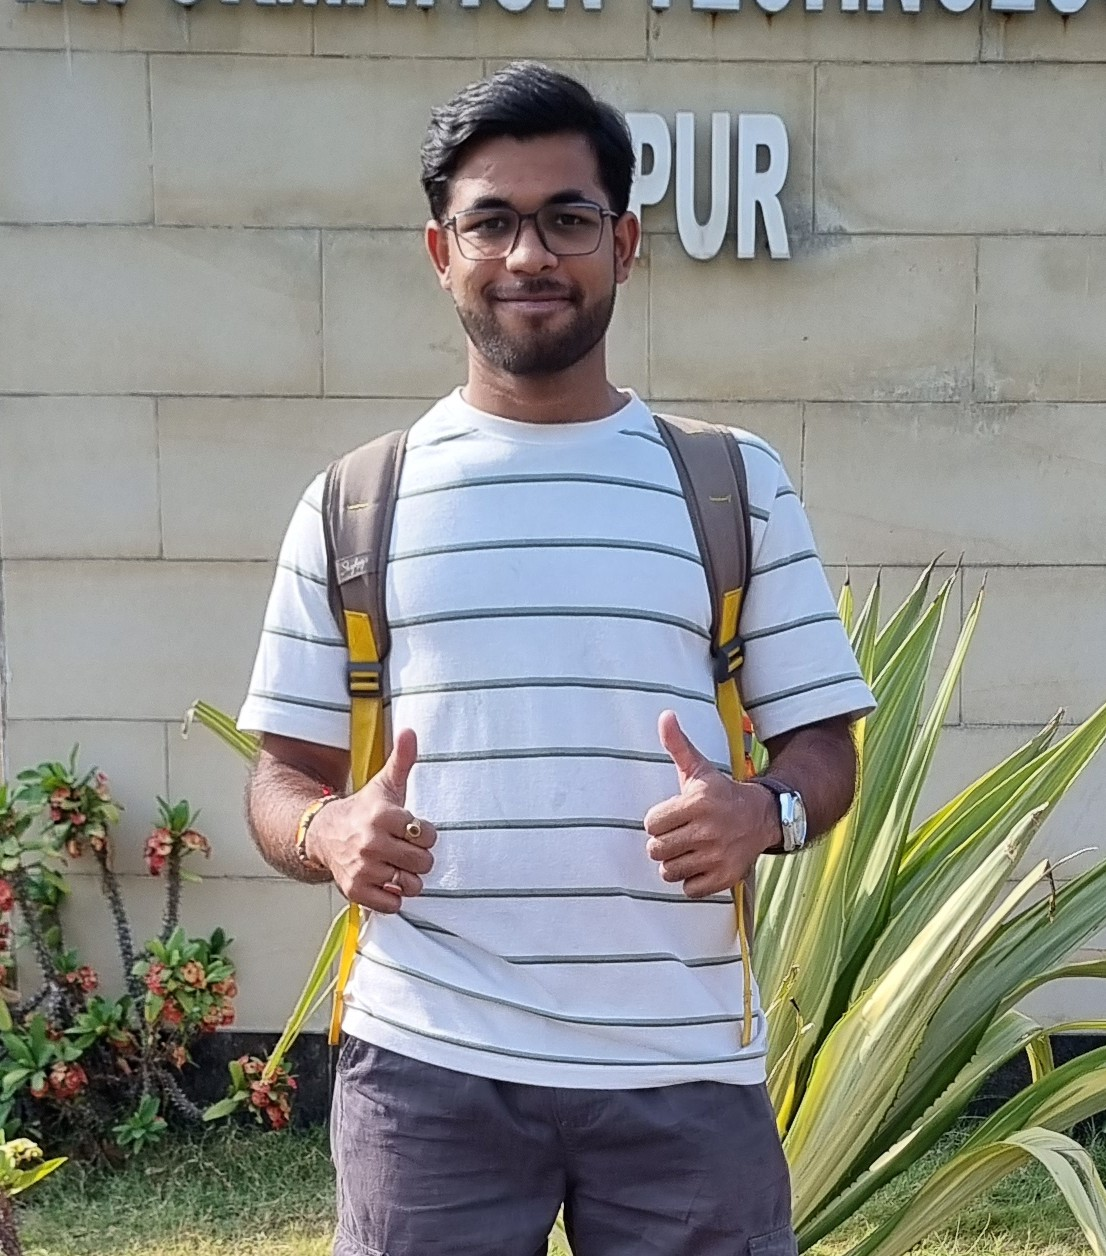
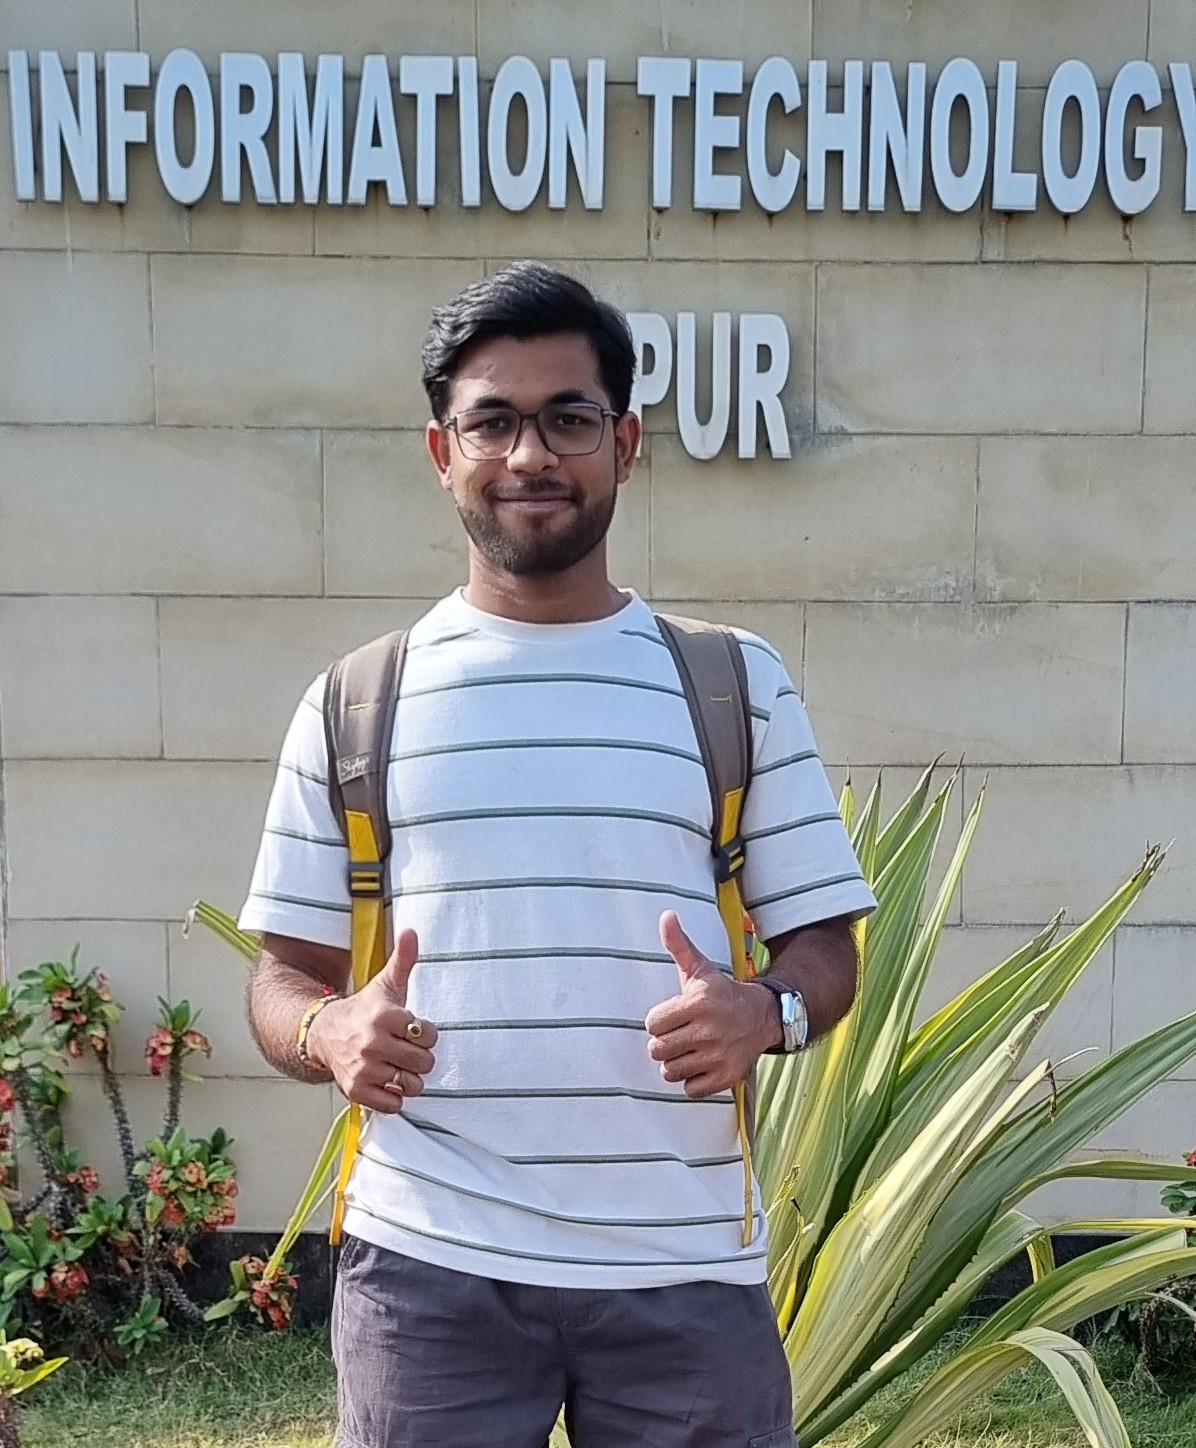
feat: update location to Nagpur and center profile photo crop

diff --git a/app/page.tsx b/app/page.tsx
@@ -120,7 +120,7 @@ export default function Home() {
               <span>Builder</span>
             </h1>
             
-            <span className="text-lg font-bold text-[#03045E] mt-2">based in India.</span>
+            <span className="text-lg font-bold text-[#03045E] mt-2">based in Nagpur.</span>
             
             <div className="mt-6 flex flex-wrap gap-4">
               <a 
@@ -158,7 +158,7 @@ export default function Home() {
                 <img 
                   src="/my-photo.jpeg" 
                   alt="Anup Thakre Portrait" 
-                  className="w-full h-full object-cover object-[center_20%] scale-[1.38]"
+                  className="w-full h-full object-cover object-[center_42%] scale-[1.15]"
                 />
               </div>
               